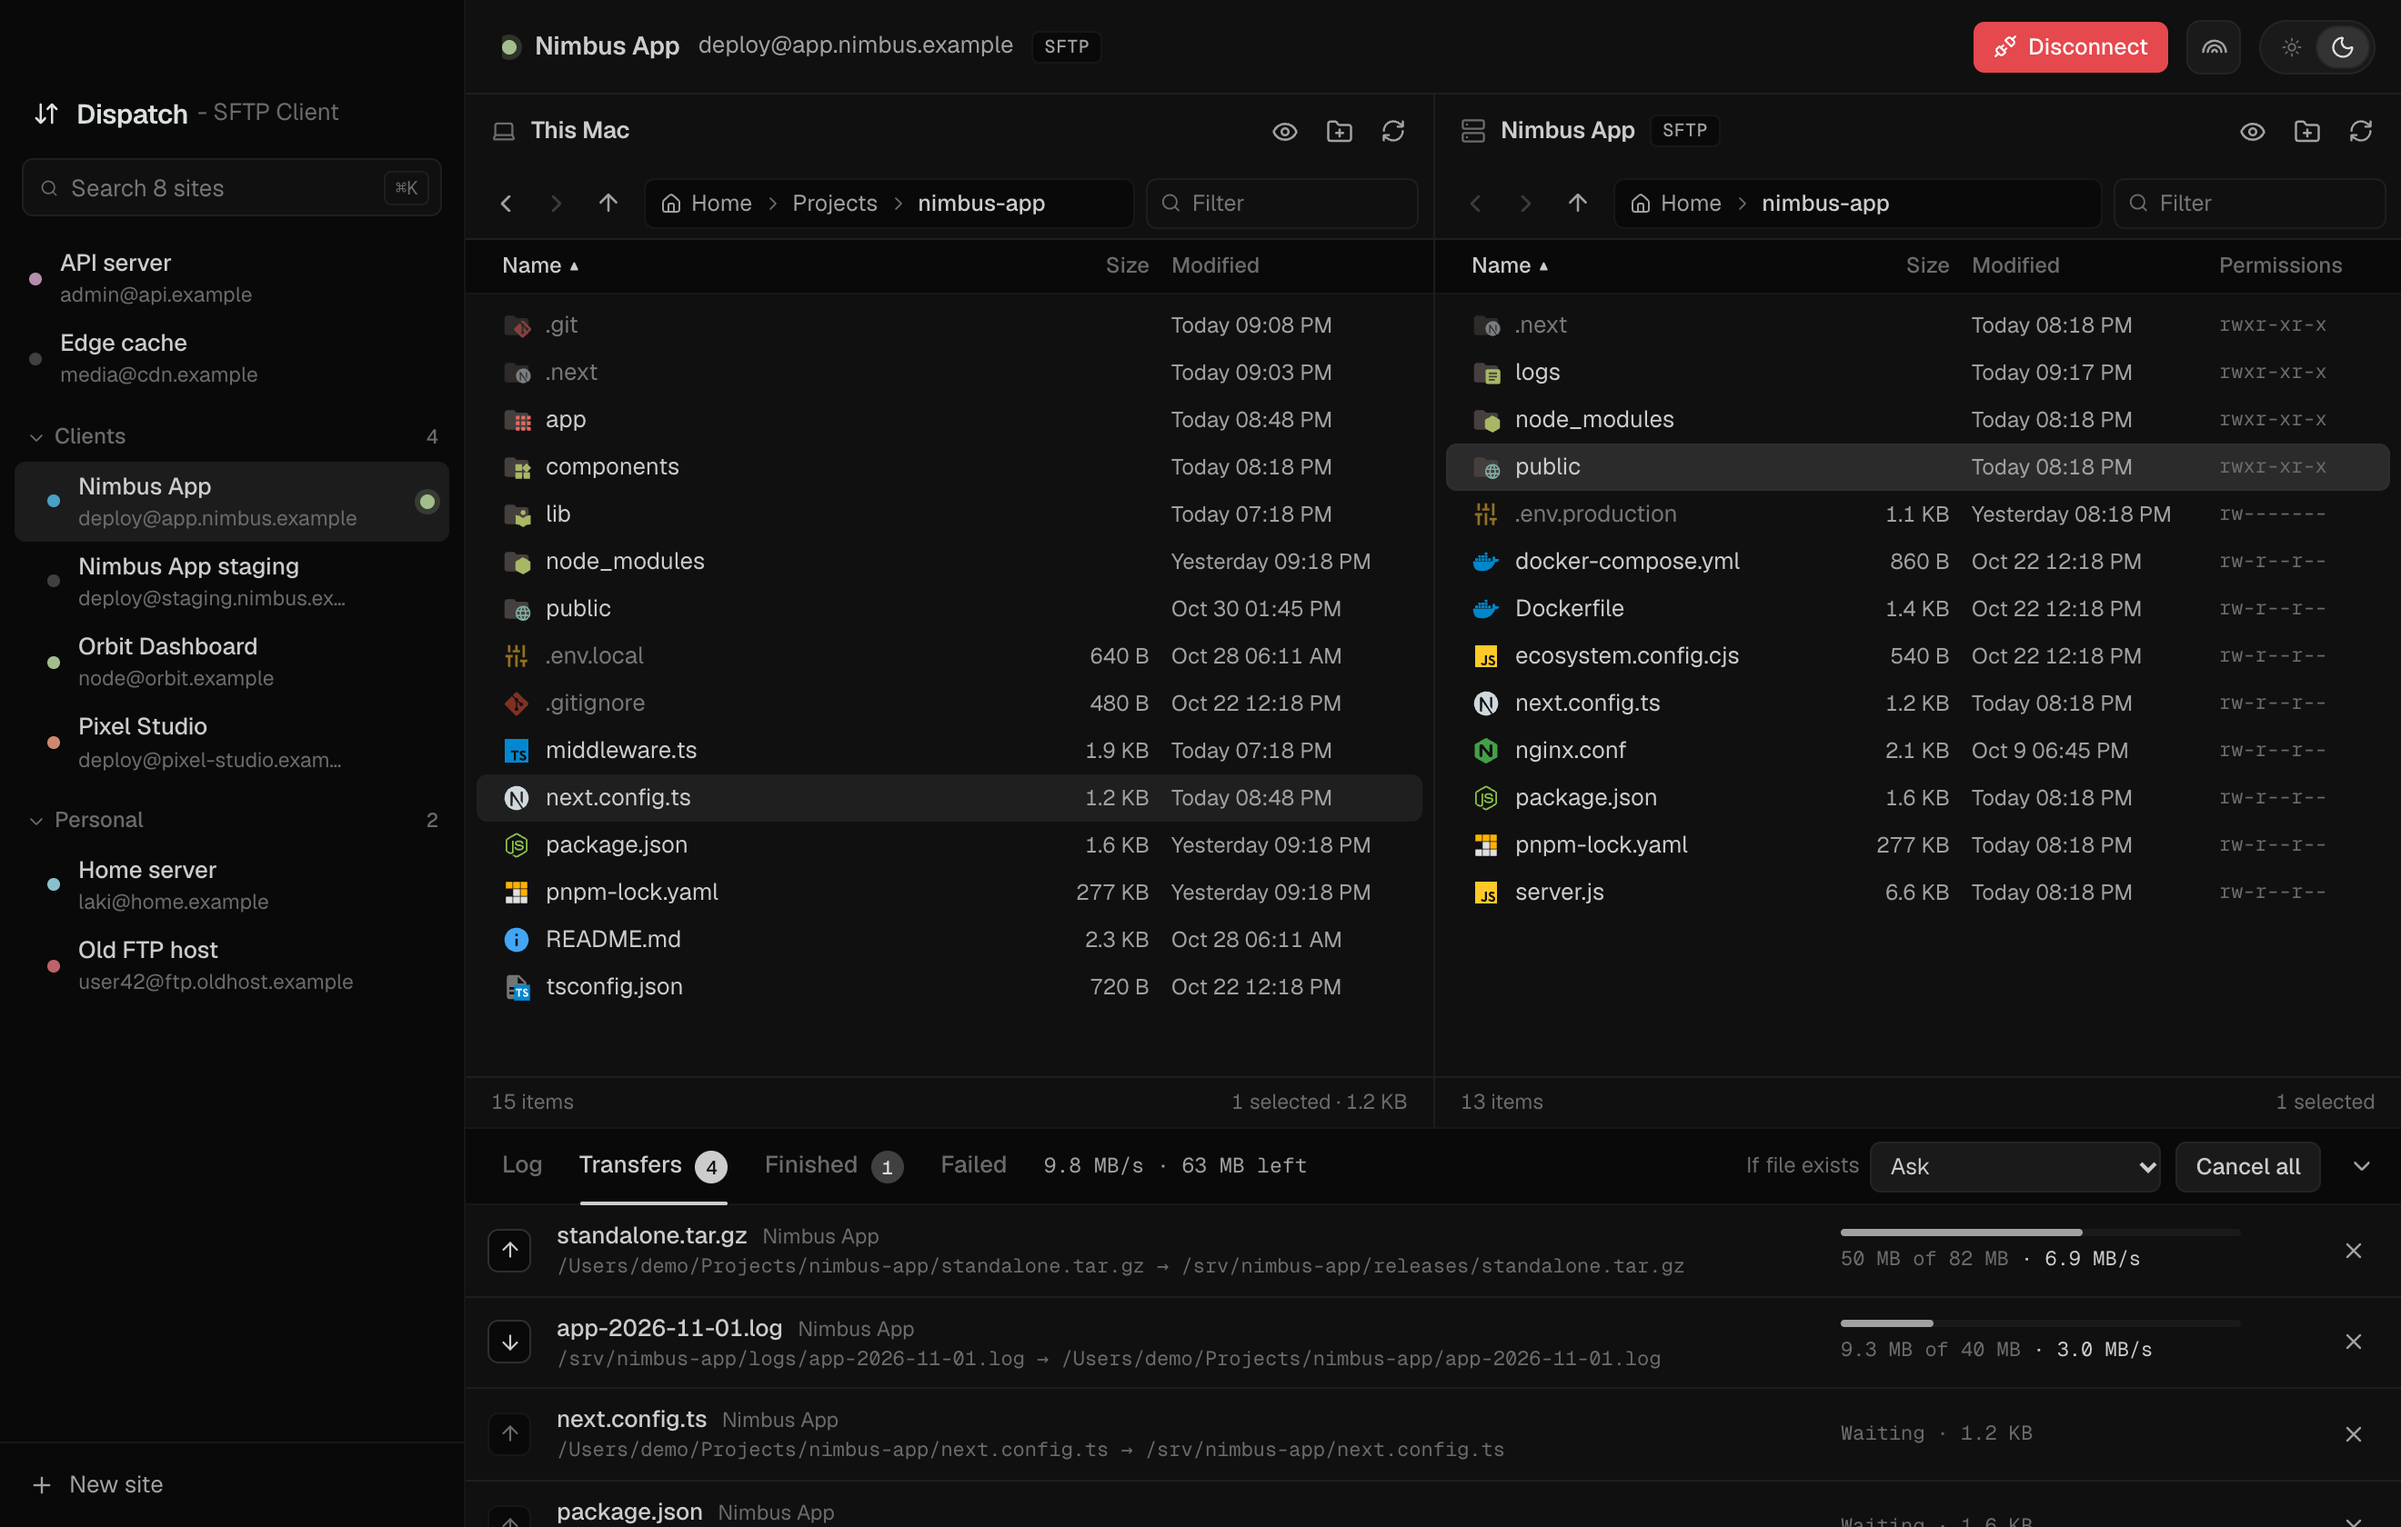
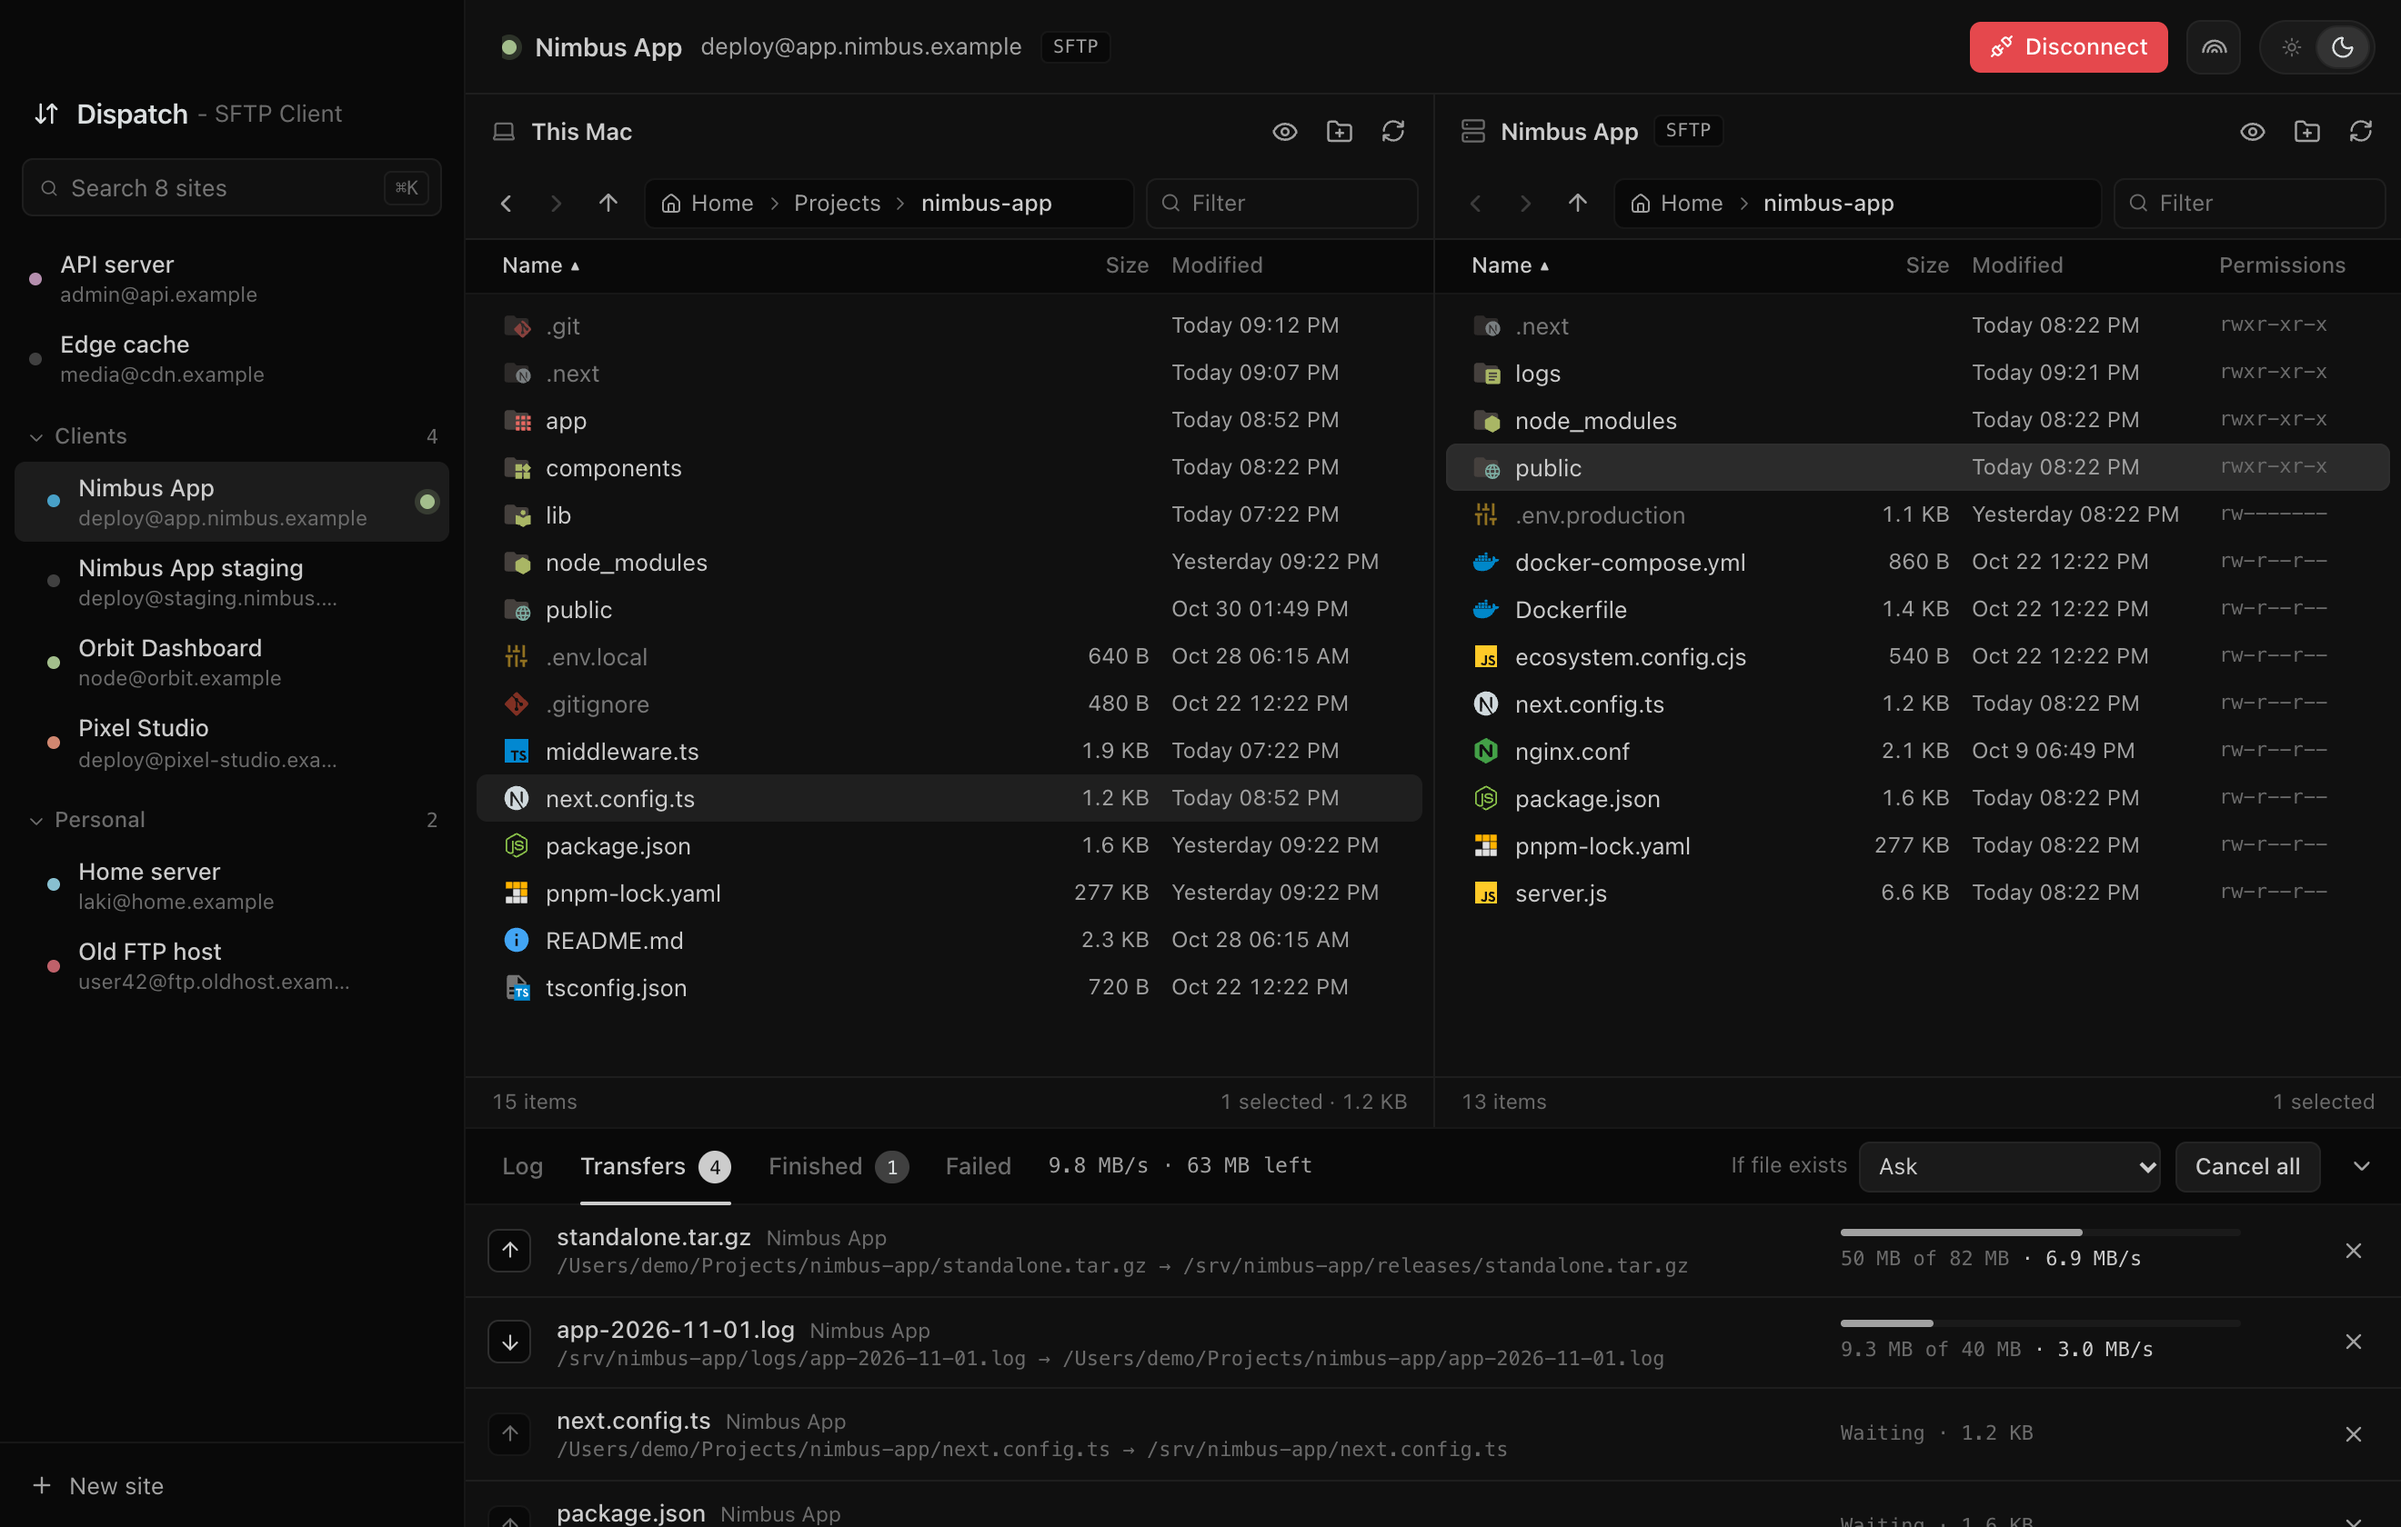
System font instead of Geist, third-party notices and readme update

diff --git a/src/styles.css b/src/styles.css
@@ -5,8 +5,8 @@
 
 :root {
   color-scheme: dark;
-  --font: "Geist Variable", -apple-system, BlinkMacSystemFont, "Helvetica Neue", sans-serif;
-  --mono: "Geist Mono Variable", ui-monospace, "SF Mono", Menlo, monospace;
+  --font: -apple-system, BlinkMacSystemFont, "SF Pro Text", "Helvetica Neue", sans-serif;
+  --mono: ui-monospace, "SF Mono", Menlo, monospace;
 
   --bg: #101010;
   --bg-subtle: #090909;
@@ -164,7 +164,7 @@ body {
   color: var(--fg);
   background: var(--bg);
   -webkit-font-smoothing: antialiased;
-  font-feature-settings: "ss01", "tnum";
+  font-variant-numeric: tabular-nums;
   user-select: none;
   -webkit-user-select: none;
   cursor: default;

diff --git a/src/main.tsx b/src/main.tsx
@@ -1,8 +1,6 @@
 import React from "react";
 import ReactDOM from "react-dom/client";
 import App from "./App";
-import "@fontsource-variable/geist";
-import "@fontsource-variable/geist-mono";
 import "./styles.css";
 
 // Set before the first paint so a light theme does not flash dark on start.

diff --git a/THIRD_PARTY_NOTICES.md b/THIRD_PARTY_NOTICES.md
@@ -1,0 +1,145 @@
+# Third-party notices
+
+Dispatch SFTP includes the icon sets and icons below. Their license texts follow. Dispatch itself is licensed under the GNU General Public License v3.0 or later (see LICENSE).
+
+## Bearded Icons
+
+Bearded Icons by BeardedBear (https://github.com/BeardedBear/bearded-icons), included in src/assets/bearded-icons/, is licensed under the GNU General Public License v3.0. The full text is in LICENSE.
+
+## Icons - Maintained ("Default icons")
+
+https://github.com/yusifaliyevpro/vscode-icons, included from src/assets/vscicons/. License: MIT.
+
+```
+MIT License
+
+Copyright (c) 2022 Mhammed Talhaouy (tal7aouy)
+Copyright (c) 2026 Yusif Aliyev (yusifaliyevpro)
+
+Permission is hereby granted, free of charge, to any person obtaining a copy
+of this software and associated documentation files (the "Software"), to deal
+in the Software without restriction, including without limitation the rights
+to use, copy, modify, merge, publish, distribute, sublicense, and/or sell
+copies of the Software, and to permit persons to whom the Software is
+furnished to do so, subject to the following conditions:
+
+The above copyright notice and this permission notice shall be included in all
+copies or substantial portions of the Software.
+
+THE SOFTWARE IS PROVIDED "AS IS", WITHOUT WARRANTY OF ANY KIND, EXPRESS OR
+IMPLIED, INCLUDING BUT NOT LIMITED TO THE WARRANTIES OF MERCHANTABILITY,
+FITNESS FOR A PARTICULAR PURPOSE AND NONINFRINGEMENT. IN NO EVENT SHALL THE
+AUTHORS OR COPYRIGHT HOLDERS BE LIABLE FOR ANY CLAIM, DAMAGES OR OTHER
+LIABILITY, WHETHER IN AN ACTION OF CONTRACT, TORT OR OTHERWISE, ARISING FROM,
+OUT OF OR IN CONNECTION WITH THE SOFTWARE OR THE USE OR OTHER DEALINGS IN THE
+SOFTWARE.
+```
+
+## Material Icon Theme
+
+https://github.com/material-extensions/vscode-material-icon-theme, included from npm package material-icon-theme. License: MIT.
+
+```
+The MIT License (MIT)
+Copyright (c) 2025 Material Extensions
+
+Permission is hereby granted, free of charge, to any person obtaining a copy of this software and associated documentation files (the "Software"), to deal in the Software without restriction, including without limitation the rights to use, copy, modify, merge, publish, distribute, sublicense, and/or sell copies of the Software, and to permit persons to whom the Software is furnished to do so, subject to the following conditions:
+
+The above copyright notice and this permission notice shall be included in all copies or substantial portions of the Software.
+
+THE SOFTWARE IS PROVIDED "AS IS", WITHOUT WARRANTY OF ANY KIND, EXPRESS OR IMPLIED, INCLUDING BUT NOT LIMITED TO THE WARRANTIES OF MERCHANTABILITY, FITNESS FOR A PARTICULAR PURPOSE AND NONINFRINGEMENT. IN NO EVENT SHALL THE AUTHORS OR COPYRIGHT HOLDERS BE LIABLE FOR ANY CLAIM, DAMAGES OR OTHER LIABILITY, WHETHER IN AN ACTION OF CONTRACT, TORT OR OTHERWISE, ARISING FROM, OUT OF OR IN CONNECTION WITH THE SOFTWARE OR THE USE OR OTHER DEALINGS IN THE SOFTWARE.
+```
+
+## vscode-icons
+
+https://github.com/vscode-icons/vscode-icons, included from npm package @iconify-json/vscode-icons. License: MIT.
+
+```
+MIT License
+
+Copyright (c) 2016 Roberto Huertas
+
+Permission is hereby granted, free of charge, to any person obtaining a copy of this software and associated documentation files (the "Software"), to deal in the Software without restriction, including without limitation the rights to use, copy, modify, merge, publish, distribute, sublicense, and/or sell copies of the Software, and to permit persons to whom the Software is furnished to do so, subject to the following conditions:
+
+The above copyright notice and this permission notice shall be included in all copies or substantial portions of the Software.
+
+THE SOFTWARE IS PROVIDED "AS IS", WITHOUT WARRANTY OF ANY KIND, EXPRESS OR IMPLIED, INCLUDING BUT NOT LIMITED TO THE WARRANTIES OF MERCHANTABILITY, FITNESS FOR A PARTICULAR PURPOSE AND NONINFRINGEMENT. IN NO EVENT SHALL THE AUTHORS OR COPYRIGHT HOLDERS BE LIABLE FOR ANY CLAIM, DAMAGES OR OTHER LIABILITY, WHETHER IN AN ACTION OF CONTRACT, TORT OR OTHERWISE, ARISING FROM, OUT OF OR IN CONNECTION WITH THE SOFTWARE OR THE USE OR OTHER DEALINGS IN THE SOFTWARE.
+```
+
+## vscode-icons-js
+
+https://github.com/dderevjanik/vscode-icons-js, included from npm package vscode-icons-js. License: MIT.
+
+```
+MIT License
+
+Copyright (c) 2018 Daniel Derevjanik
+
+Permission is hereby granted, free of charge, to any person obtaining a copy
+of this software and associated documentation files (the "Software"), to deal
+in the Software without restriction, including without limitation the rights
+to use, copy, modify, merge, publish, distribute, sublicense, and/or sell
+copies of the Software, and to permit persons to whom the Software is
+furnished to do so, subject to the following conditions:
+
+The above copyright notice and this permission notice shall be included in all
+copies or substantial portions of the Software.
+
+THE SOFTWARE IS PROVIDED "AS IS", WITHOUT WARRANTY OF ANY KIND, EXPRESS OR
+IMPLIED, INCLUDING BUT NOT LIMITED TO THE WARRANTIES OF MERCHANTABILITY,
+FITNESS FOR A PARTICULAR PURPOSE AND NONINFRINGEMENT. IN NO EVENT SHALL THE
+AUTHORS OR COPYRIGHT HOLDERS BE LIABLE FOR ANY CLAIM, DAMAGES OR OTHER
+LIABILITY, WHETHER IN AN ACTION OF CONTRACT, TORT OR OTHERWISE, ARISING FROM,
+OUT OF OR IN CONNECTION WITH THE SOFTWARE OR THE USE OR OTHER DEALINGS IN THE
+SOFTWARE.
+```
+
+## Lucide
+
+https://lucide.dev, included from npm package lucide-react. License: ISC.
+
+```
+ISC License
+
+Copyright (c) 2026 Lucide Icons and Contributors
+
+Permission to use, copy, modify, and/or distribute this software for any
+purpose with or without fee is hereby granted, provided that the above
+copyright notice and this permission notice appear in all copies.
+
+THE SOFTWARE IS PROVIDED "AS IS" AND THE AUTHOR DISCLAIMS ALL WARRANTIES
+WITH REGARD TO THIS SOFTWARE INCLUDING ALL IMPLIED WARRANTIES OF
+MERCHANTABILITY AND FITNESS. IN NO EVENT SHALL THE AUTHOR BE LIABLE FOR
+ANY SPECIAL, DIRECT, INDIRECT, OR CONSEQUENTIAL DAMAGES OR ANY DAMAGES
+WHATSOEVER RESULTING FROM LOSS OF USE, DATA OR PROFITS, WHETHER IN AN
+ACTION OF CONTRACT, NEGLIGENCE OR OTHER TORTIOUS ACTION, ARISING OUT OF
+OR IN CONNECTION WITH THE USE OR PERFORMANCE OF THIS SOFTWARE.
+
+---
+
+The following Lucide icons are derived from the Feather project:
+
+airplay, alert-circle, alert-octagon, alert-triangle, aperture, arrow-down-circle, arrow-down-left, arrow-down-right, arrow-down, arrow-left-circle, arrow-left, arrow-right-circle, arrow-right, arrow-up-circle, arrow-up-left, arrow-up-right, arrow-up, at-sign, calendar, cast, check, chevron-down, chevron-left, chevron-right, chevron-up, chevrons-down, chevrons-left, chevrons-right, chevrons-up, circle, clipboard, clock, code, columns, command, compass, corner-down-left, corner-down-right, corner-left-down, corner-left-up, corner-right-down, corner-right-up, corner-up-left, corner-up-right, crosshair, database, divide-circle, divide-square, dollar-sign, download, external-link, feather, frown, hash, headphones, help-circle, info, italic, key, layout, life-buoy, link-2, link, loader, lock, log-in, log-out, maximize, meh, minimize, minimize-2, minus-circle, minus-square, minus, monitor, moon, more-horizontal, more-vertical, move, music, navigation-2, navigation, octagon, pause-circle, percent, plus-circle, plus-square, plus, power, radio, rss, search, server, share, shopping-bag, sidebar, smartphone, smile, square, table-2, tablet, target, terminal, trash-2, trash, triangle, tv, type, upload, x-circle, x-octagon, x-square, x, zoom-in, zoom-out
+
+The MIT License (MIT) (for the icons listed above)
+
+Copyright (c) 2013-present Cole Bemis
+
+Permission is hereby granted, free of charge, to any person obtaining a copy
+of this software and associated documentation files (the "Software"), to deal
+in the Software without restriction, including without limitation the rights
+to use, copy, modify, merge, publish, distribute, sublicense, and/or sell
+copies of the Software, and to permit persons to whom the Software is
+furnished to do so, subject to the following conditions:
+
+The above copyright notice and this permission notice shall be included in all
+copies or substantial portions of the Software.
+
+THE SOFTWARE IS PROVIDED "AS IS", WITHOUT WARRANTY OF ANY KIND, EXPRESS OR
+IMPLIED, INCLUDING BUT NOT LIMITED TO THE WARRANTIES OF MERCHANTABILITY,
+FITNESS FOR A PARTICULAR PURPOSE AND NONINFRINGEMENT. IN NO EVENT SHALL THE
+AUTHORS OR COPYRIGHT HOLDERS BE LIABLE FOR ANY CLAIM, DAMAGES OR OTHER
+LIABILITY, WHETHER IN AN ACTION OF CONTRACT, TORT OR OTHERWISE, ARISING FROM,
+OUT OF OR IN CONNECTION WITH THE SOFTWARE OR THE USE OR OTHER DEALINGS IN THE
+SOFTWARE.
+```

diff --git a/README.md b/README.md
@@ -4,7 +4,7 @@ Dispatch is an open source SFTP and FTP client for macOS, with a local and a rem
 
 ![Dispatch connected to a server, with the local and remote panes and the transfer queue](docs/screenshot.png)
 
-It is built with [Tauri 2](https://tauri.app): a Rust backend for the connections and transfers, and a React frontend for the interface. The app is around 10 MB.
+It is built with [Tauri 2](https://tauri.app): a Rust backend for the connections and transfers, and a React frontend for the interface. The app is about 12 MB, 7 MB as a zip download.
 
 ## Features
 
@@ -78,9 +78,8 @@ cargo test
 | [Bearded Icons](https://github.com/BeardedBear/bearded-icons) | BeardedBear | GPL-3.0 |
 | [vscode-icons](https://github.com/vscode-icons/vscode-icons) | Roberto Huertas | MIT |
 | [Lucide](https://lucide.dev) | Lucide contributors | ISC |
-| [Geist and Geist Mono](https://vercel.com/font) | Vercel | SIL Open Font License 1.1 |
 
-The copied icon sets are in `src/assets/`, each with its license and a `SOURCE.txt` noting where it came from.
+The full license texts are in [THIRD_PARTY_NOTICES.md](THIRD_PARTY_NOTICES.md), which also ships inside the app. The icon sets copied into `src/assets/` each keep their license and a `SOURCE.txt` noting where they came from.
 
 ## License
 
